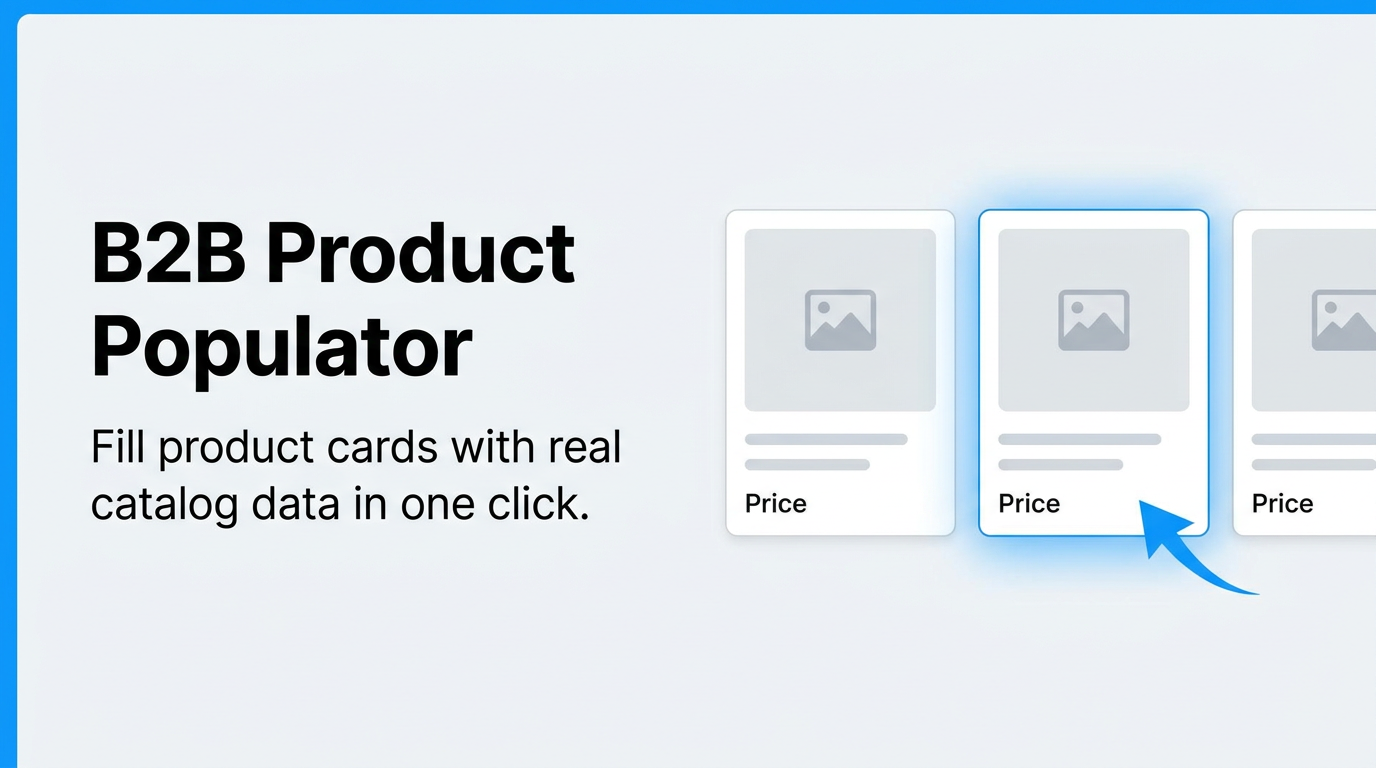
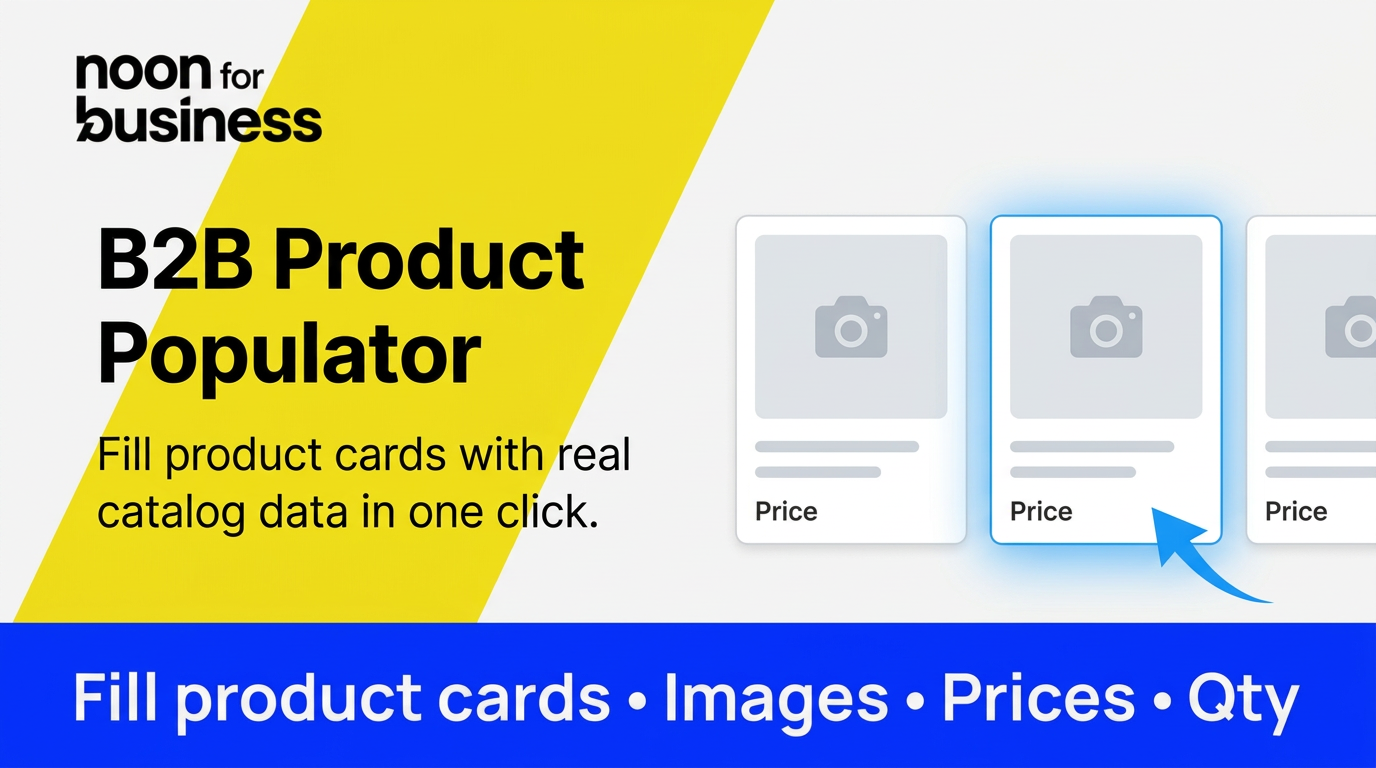
Fix image fills and refresh plugin cover
Ensure product images replace all existing IMAGE paints and remove temporary debug UI output. Update plugin cover thumbnail.

Made-with: Cursor

diff --git a/src/code.ts b/src/code.ts
@@ -51,7 +51,8 @@ async function loadImageFromUrl(
       cache.set(url, image);
       return image;
     }
-  } catch {}
+  } catch (e) {
+  }
   return null;
 }
 
@@ -241,17 +242,15 @@ function applyImageToCard(card: CardCandidate, image: Image): boolean {
   try {
     const existingFills = fillTarget.fills;
     if (Array.isArray(existingFills)) {
-      const idx = (existingFills as Paint[]).findIndex((f: Paint) => f.type === "IMAGE");
-      if (idx >= 0) {
-        const cloned = (existingFills as Paint[]).map((f: Paint) => ({ ...f }));
-        (cloned[idx] as Record<string, unknown>).imageHash = image.hash;
-        fillTarget.fills = cloned;
-        return true;
-      }
+      const paints = existingFills as Paint[];
+      const nonImageFills = paints.filter((f: Paint) => f.type !== "IMAGE");
+      fillTarget.fills = [...nonImageFills, { type: "IMAGE", imageHash: image.hash, scaleMode: "FILL" } as ImagePaint];
+      return true;
+    } else {
     }
     fillTarget.fills = [{ type: "IMAGE", imageHash: image.hash, scaleMode: "FILL" } as ImagePaint];
     return true;
-  } catch {
+  } catch (e) {
     return false;
   }
 }
@@ -302,7 +301,7 @@ figma.ui.onmessage = async (msg: {
   let imageSetCount = 0;
   const MAX_CONCURRENT = 4;
 
-  async function processImage(assignment: typeof assignments[0]): Promise<void> {
+  async function processImage(assignment: typeof assignments[0], idx: number): Promise<void> {
     const { card, product } = assignment;
     if (!product.thumbnail) return;
     const img = await loadImageFromUrl(product.thumbnail, imageCache);
@@ -310,8 +309,8 @@ figma.ui.onmessage = async (msg: {
   }
 
   const running: Promise<void>[] = [];
-  for (const item of assignments) {
-    const p = processImage(item);
+  for (let i = 0; i < assignments.length; i++) {
+    const p = processImage(assignments[i], i);
     running.push(p);
     if (running.length >= MAX_CONCURRENT) {
       await Promise.race(running);

diff --git a/code.js b/code.js
@@ -34,7 +34,8 @@ async function loadImageFromUrl(url, cache) {
             return image;
         }
     }
-    catch (_a) { }
+    catch (e) {
+    }
     return null;
 }
 function isCardCandidate(node) {
@@ -228,18 +229,17 @@ function applyImageToCard(card, image) {
     try {
         const existingFills = fillTarget.fills;
         if (Array.isArray(existingFills)) {
-            const idx = existingFills.findIndex((f) => f.type === "IMAGE");
-            if (idx >= 0) {
-                const cloned = existingFills.map((f) => (Object.assign({}, f)));
-                cloned[idx].imageHash = image.hash;
-                fillTarget.fills = cloned;
-                return true;
-            }
+            const paints = existingFills;
+            const nonImageFills = paints.filter((f) => f.type !== "IMAGE");
+            fillTarget.fills = [...nonImageFills, { type: "IMAGE", imageHash: image.hash, scaleMode: "FILL" }];
+            return true;
+        }
+        else {
         }
         fillTarget.fills = [{ type: "IMAGE", imageHash: image.hash, scaleMode: "FILL" }];
         return true;
     }
-    catch (_b) {
+    catch (e) {
         return false;
     }
 }
@@ -278,7 +278,7 @@ figma.ui.onmessage = async (msg) => {
     const imageCache = new Map();
     let imageSetCount = 0;
     const MAX_CONCURRENT = 4;
-    async function processImage(assignment) {
+    async function processImage(assignment, idx) {
         const { card, product } = assignment;
         if (!product.thumbnail)
             return;
@@ -288,8 +288,8 @@ figma.ui.onmessage = async (msg) => {
         }
     }
     const running = [];
-    for (const item of assignments) {
-        const p = processImage(item);
+    for (let i = 0; i < assignments.length; i++) {
+        const p = processImage(assignments[i], i);
         running.push(p);
         if (running.length >= MAX_CONCURRENT) {
             await Promise.race(running);
